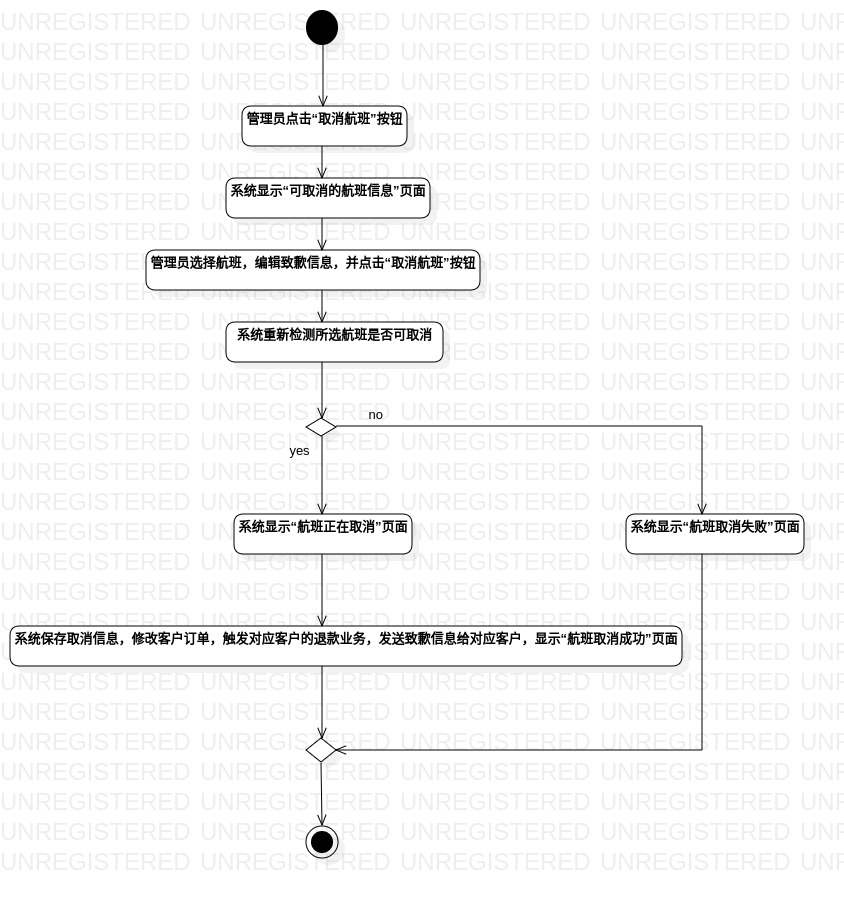
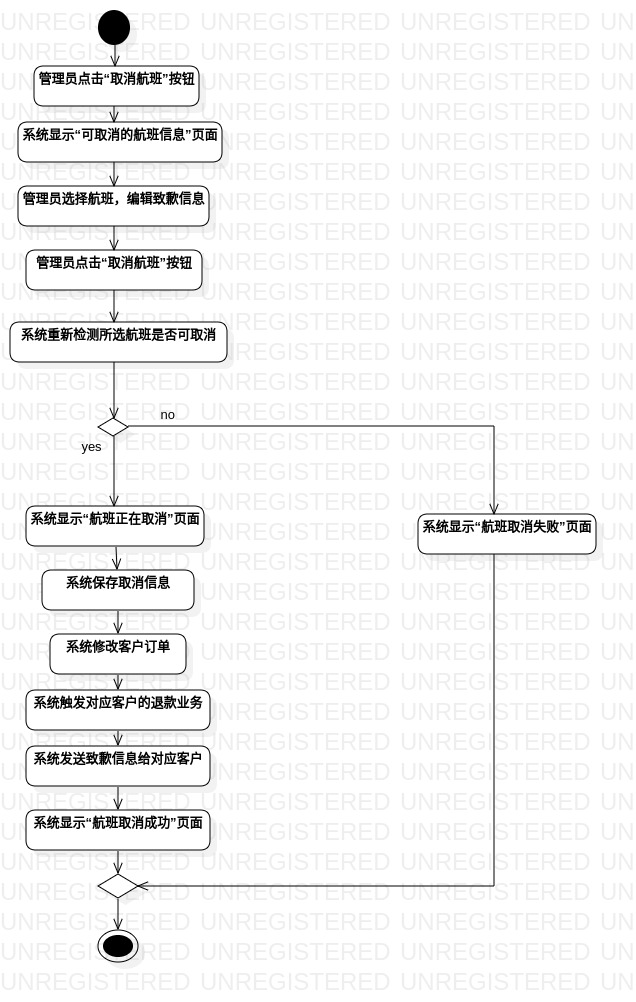
Break down complex steps

Changed region(s): [[0.0, 0.0, 0.956, 0.9666], [0.1195, 0.4053, 0.2091, 0.4677]]

diff --git a/students/1714080901141/lab2.md b/students/1714080901141/lab2.md
@@ -50,10 +50,14 @@
 后置条件  |     | *可选*   
 基本流程  | 1. 管理员点击“添加航班”按钮；  | *用例执行成功的步骤*
 ~| 2. 系统显示“添加航班”页面；  | 
-~| 3. 管理员输入航班类型、航班时间，点击“确认”按钮； |
-~| 4. 系统检查对应类型航班有闲置、航班时间可兼容，保存添加信息，并显示“添加航班成功”页面。 |    
-扩展流程  | 4.1 系统检查对应类型航班无闲置，提示“航班忙碌，添加失败”，返回“添加航班”页面;  |*用例执行失败的步骤*
-~| 4.2 系统检查航班时间不可兼容，提示“航班时间冲突，添加失败”，返回“添加航班”页面。  |
+~| 3. 管理员输入航班类型、航班时间；|
+~| 4. 管理员点击“确认”按钮； |
+~| 5. 系统检查航班时间可兼容;  |
+~| 6. 系统检查对应类型航班有闲置;  |
+~| 7. 系统保存添加信息；  |
+~| 8. 系统显示“添加航班成功”页面。 |
+扩展流程  | 5.1 系统检查航班时间不可兼容，提示“航班时间冲突，添加失败”，返回“添加航班”页面。  |*用例执行失败的步骤*
+~| 6.1 系统检查对应类型航班无闲置，提示“航班忙碌，添加失败”，返回“添加航班”页面;  |
 ##### 表2：取消航班用例规约
 用例编号  | UC02 | 备注  
 -|:-|-  
@@ -62,9 +66,15 @@
 后置条件  |     | *可选*   
 基本流程  | 1. 管理员点击“取消航班”按钮；  |*用例执行成功的步骤* 
 ~| 2. 系统显示“可取消的航班信息”页面； |
-~| 3. 管理员选择航班，编辑致歉信息，并点击“取消航班”按钮；  |   
-~| 4. 系统重新检测到所选航班可取消，显示“航班正在取消”页面；  | *选择需要时间，有时差，需要实时重新检查（step2已经检测过一次）*
-~| 5. 系统保存取消信息，修改客户订单，触发对应客户的退款业务，发送致歉信息给对应客户，显示“航班取消成功”页面。  |
+~| 3. 管理员选择航班，编辑致歉信息；|
+~| 4. 管理员点击“取消航班”按钮；  |
+~| 5. 系统重新检测到所选航班可取消；  |
+~| 6. 系统显示“航班正在取消”页面；  | *选择需要时间，有时差，需要实时重新检查（step2已经检测过一次）*
+~| 7. 系统保存取消信息；  |
+~| 8. 系统修改客户订单；  |
+~| 9. 系统触发对应客户的退款业务；  |
+~| 10. 系统发送致歉信息给对应客户；  |
+~| 11. 系统显示“航班取消成功”页面。  |
 扩展流程  | 4.1 系统重新检测到所选航班不可取消，显示“航班取消失败”页面。 |*用例执行失败的步骤* 
 
 ## 四、 实验结果  

diff --git a/students/1714080901141/lab3.md b/students/1714080901141/lab3.md
@@ -22,9 +22,9 @@
 #### 2. 活动图制作步骤如下：
 
 （1）创建Activity Diagram  
-（2）添加初始结点、添加结束结点
-（5）添加活动、分支处添加决策
-（6）添加流程线、调整整体  
+（2）添加初始结点、添加结束结点  
+（3）添加活动、分支处添加决策  
+（4）添加流程线、调整整体  
 
 ## 四、实验结果
 
